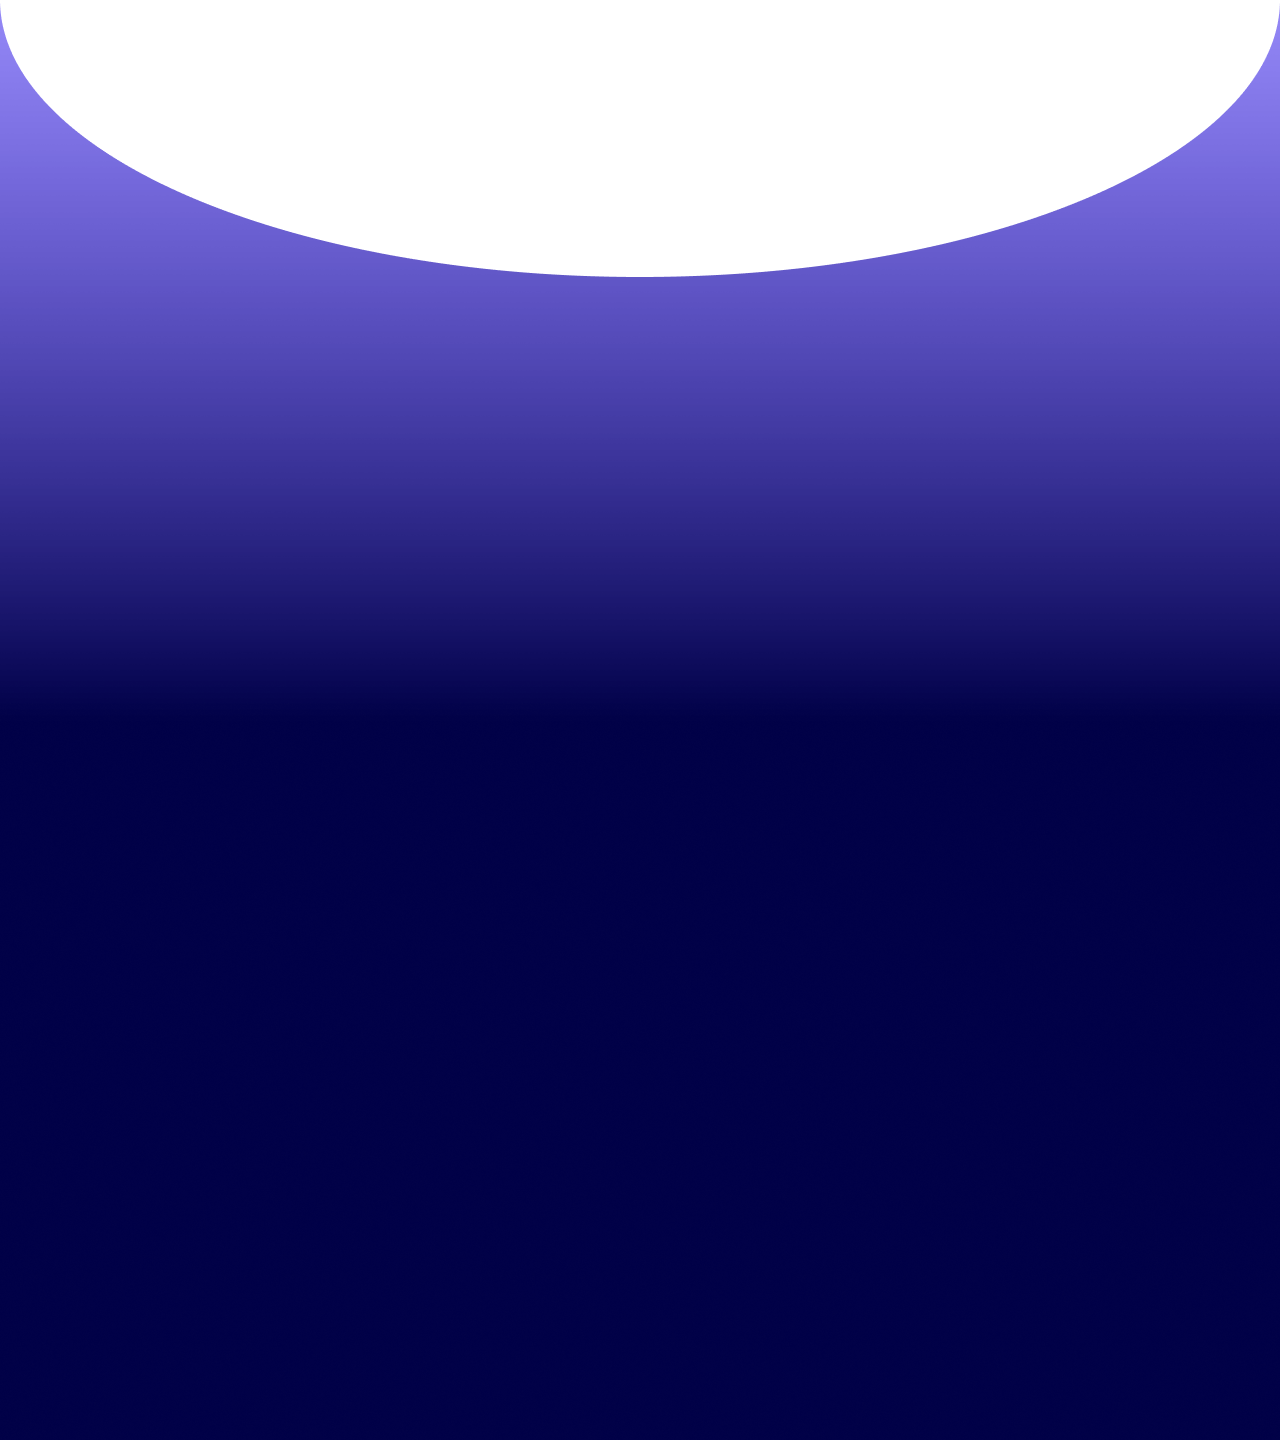
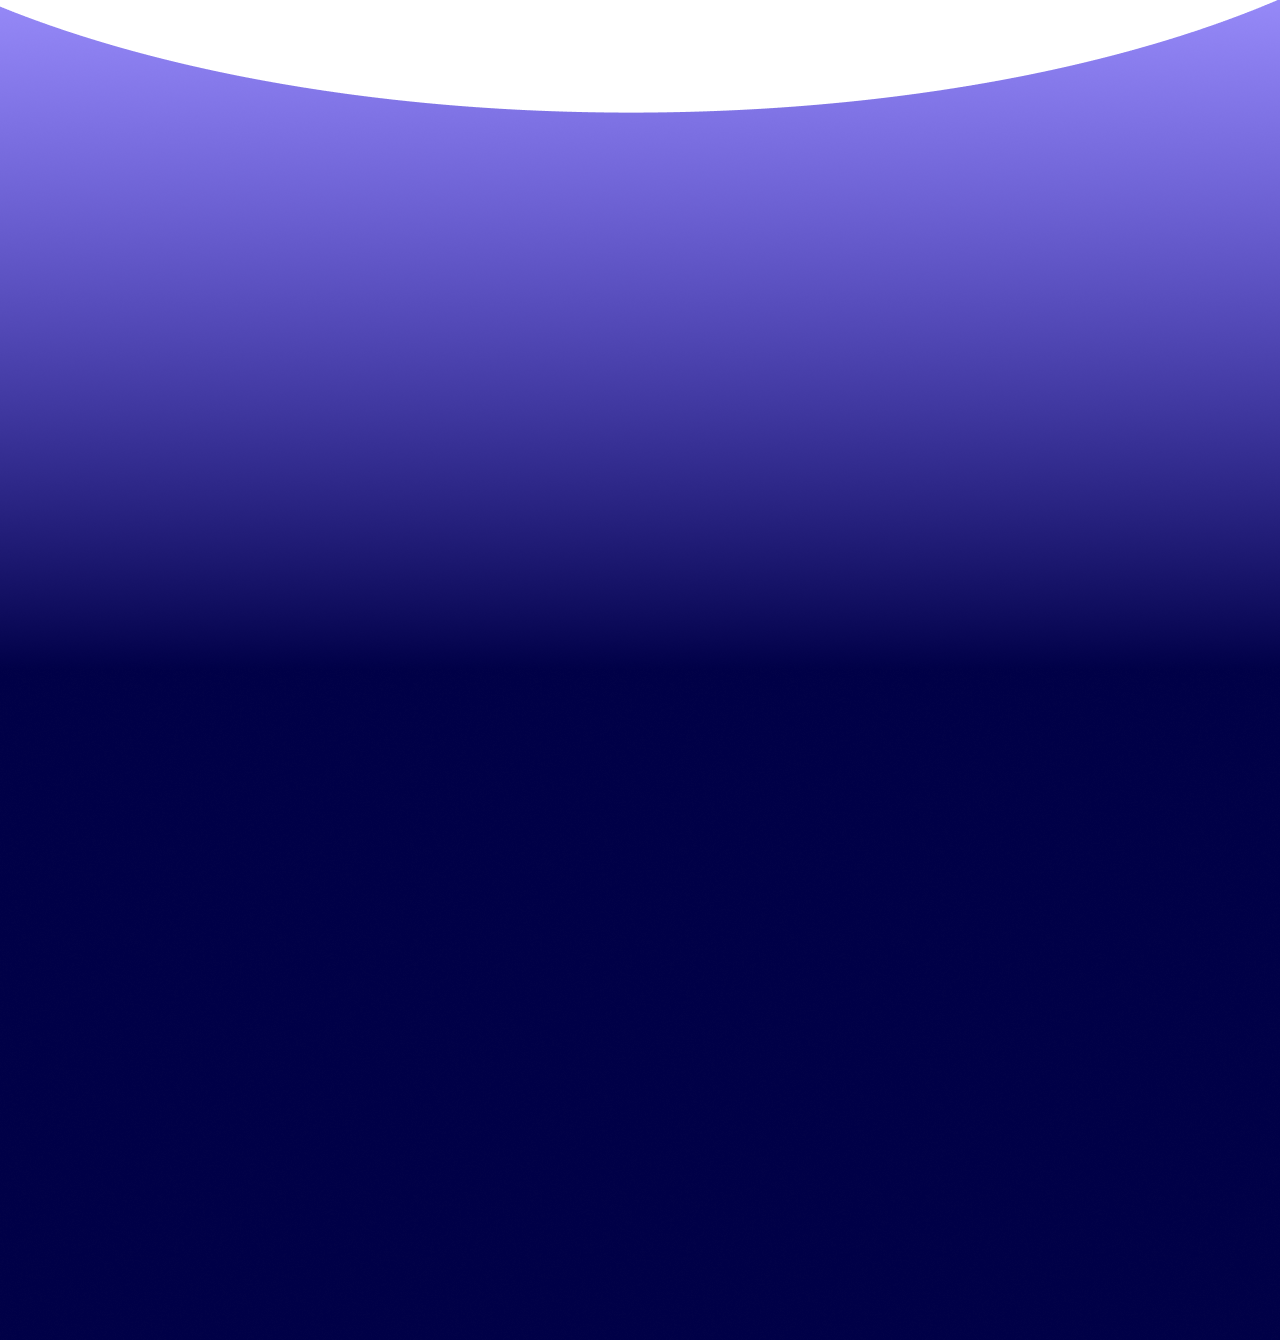
fix: cards skills translation & add new backgrounds

Changed region(s): [[0.0, 0.0, 1.0, 0.2142]]

diff --git a/index.html b/index.html
@@ -24,6 +24,14 @@
       type="image/x-icon"
       href="./assets/icons/icon-web.png"
     />
+    <script
+      type="module"
+      src="https://unpkg.com/ionicons@latest/dist/ionicons/ionicons.esm.js"
+    ></script>
+    <script
+      nomodule=""
+      src="https://unpkg.com/ionicons@latest/dist/ionicons/ionicons.js"
+    ></script>
     <title>Gabriel Moura | Website</title>
   </head>
 
@@ -203,38 +211,38 @@
           <div id="skills-container">
             <div class="skills-container-lang">
               <span class="imgPython"></span>
-              <h1 id="headerOneLangTrans">Python</h1>
-              <p id="textOneLangTrans">
+              <h1 class="headerOneLangTrans">Python</h1>
+              <p class="textOneLangTrans">
                 Serve para quase tudo, menos para lavar a louça
               </p>
               <span></span>
             </div>
             <div class="skills-container-lang">
               <span class="imgCpp"></span>
-              <h1 id="headerTwoLangTrans">C++</h1>
-              <p id="textTwoLangTrans">É cada [;] que a gente esquece</p>
+              <h1 class="headerTwoLangTrans">C++</h1>
+              <p class="textTwoLangTrans">É cada [;] que a gente esquece</p>
               <span></span>
             </div>
             <div class="skills-container-lang">
               <span class="imgHtml"></span>
-              <h1 id="headerThreeLangTrans">HTML</h1>
-              <p id="textThreeLangTrans">
+              <h1 class="headerThreeLangTrans">HTML</h1>
+              <p class="textThreeLangTrans">
                 Eleita a melhor "linguagem de programação" do ano
               </p>
               <span></span>
             </div>
             <div class="skills-container-lang">
               <span class="imgCss"></span>
-              <h1 id="headerFourLangTrans">CSS</h1>
-              <p id="textFourLangTrans">
+              <h1 class="headerFourLangTrans">CSS</h1>
+              <p class="textFourLangTrans">
                 O famoso filtro do instagram para devs
               </p>
               <span></span>
             </div>
             <div class="skills-container-lang">
               <span class="imgJs"></span>
-              <h1 id="headerFiveLangTrans">JavaScript</h1>
-              <p id="textFiveLangTrans">Um primo distante do Java</p>
+              <h1 class="headerFiveLangTrans">JavaScript</h1>
+              <p class="textFiveLangTrans">Um primo distante do Java</p>
               <span></span>
             </div>
           </div>
@@ -422,10 +430,9 @@
           })
       }
     </script>
-    <script src="https://unpkg.com/ionicons@latest/dist/ionicons.js"></script>
+    <script src="https://smtpjs.com/v3/smtp.js"></script>
     <script src="scripts/toggleMode.js" type="text/JavaScript"></script>
     <script src="scripts/translateTo.js" type="text/JavaScript"></script>
     <script src="scripts/duplicateSkills.js" type="text/JavaScript"></script>
-    <script src="https://smtpjs.com/v3/smtp.js"></script>
   </body>
 </html>

diff --git a/scripts/translateTo.js b/scripts/translateTo.js
@@ -198,30 +198,36 @@ function translateTo() {
     translation[lang].buttonWorksTrans
 
   // Languages
-  document.getElementById("headerOneSkillsTrans").textContent =
-    translation[lang].headerOneSkillsTrans
-  document.getElementById("headerTwoSkillsTrans").textContent =
-    translation[lang].headerTwoSkillsTrans
-  document.getElementById("headerOneLangTrans").textContent =
-    translation[lang].headerOneLangTrans
-  document.getElementById("textOneLangTrans").textContent =
-    translation[lang].textOneLangTrans
-  document.getElementById("headerTwoLangTrans").textContent =
-    translation[lang].headerTwoLangTrans
-  document.getElementById("textTwoLangTrans").textContent =
-    translation[lang].textTwoLangTrans
-  document.getElementById("headerThreeLangTrans").textContent =
-    translation[lang].headerThreeLangTrans
-  document.getElementById("textThreeLangTrans").textContent =
-    translation[lang].textThreeLangTrans
-  document.getElementById("headerFourLangTrans").textContent =
-    translation[lang].headerFourLangTrans
-  document.getElementById("textFourLangTrans").textContent =
-    translation[lang].textFourLangTrans
-  document.getElementById("headerFiveLangTrans").textContent =
-    translation[lang].headerFiveLangTrans
-  document.getElementById("textFiveLangTrans").textContent =
-    translation[lang].textFiveLangTrans
+  const headerOneLangTrans =
+    document.getElementsByClassName("headerOneLangTrans")
+  const headerTwoLangTrans =
+    document.getElementsByClassName("headerTwoLangTrans")
+  const headerThreeLangTrans = document.getElementsByClassName(
+    "headerThreeLangTrans"
+  )
+  const headerFiveLangTrans = document.getElementsByClassName(
+    "headerFiveLangTrans"
+  )
+
+  const textOneLangTrans = document.getElementsByClassName("textOneLangTrans")
+  const textTwoLangTrans = document.getElementsByClassName("textTwoLangTrans")
+  const textThreeLangTrans =
+    document.getElementsByClassName("textThreeLangTrans")
+  const textFourLangTrans = document.getElementsByClassName("textFourLangTrans")
+  const textFiveLangTrans = document.getElementsByClassName("textFiveLangTrans")
+
+  for (let i = 0; i < 2; i++) {
+    headerOneLangTrans[i].textContent = translation[lang].headerOneLangTrans
+    headerTwoLangTrans[i].textContent = translation[lang].headerTwoLangTrans
+    headerThreeLangTrans[i].textContent = translation[lang].headerThreeLangTrans
+    headerFiveLangTrans[i].textContent = translation[lang].headerFiveLangTrans
+
+    textOneLangTrans[i].textContent = translation[lang].textOneLangTrans
+    textTwoLangTrans[i].textContent = translation[lang].textTwoLangTrans
+    textThreeLangTrans[i].textContent = translation[lang].textThreeLangTrans
+    textFourLangTrans[i].textContent = translation[lang].textFourLangTrans
+    textFiveLangTrans[i].textContent = translation[lang].textFiveLangTrans
+  }
 
   // Projects
   document.getElementById("headerOneProjectsTrans").textContent =

diff --git a/styles/contact.css b/styles/contact.css
@@ -178,7 +178,7 @@
   color: white;
   text-align: center;
   font-family: Poppins;
-  font-size: 24px;
+  font-size: 22px;
   font-style: normal;
   font-weight: 400;
   line-height: normal;
@@ -189,7 +189,7 @@
   width: fit-content;
   height: fit-content;
   align-content: center;
-  margin-top: 20px;
+  margin-top: 10px;
   gap: 45px;
 }
 
@@ -205,8 +205,8 @@
 }
 
 #div-social-links ion-icon {
-  width: 50px;
-  height: 50px;
+  width: 40px;
+  height: 40px;
 
   color: white;
 }

diff --git a/styles/general.css b/styles/general.css
@@ -13,7 +13,8 @@
   --img-js: url(../assets/logo-languages/js-light.svg);
 
   /*Background*/
-  --background: linear-gradient(180deg, #45433e 0%, #161514 100%);
+  /* --background: linear-gradient(180deg, #45433e 0%, #161514 100%); */
+  --background: url(../assets/background/background-dark.jpg);
   --about-background: url(../assets/background/quadro-branco.png);
   --background-special: url(../assets/background/background-special.png);
 

diff --git a/scripts/duplicateSkills.js b/scripts/duplicateSkills.js
@@ -4,6 +4,6 @@ const elemScrollChildren = Array.from(elemScrollContainer.children)
 
 elemScrollChildren.forEach((item) => {
   const elemDuplicate = item.cloneNode(true)
-  elemDuplicate.setAttribute('area-hidden', 'true')
+  elemDuplicate.setAttribute("area-hidden", "true")
   elemScrollContainer.appendChild(elemDuplicate)
 })
